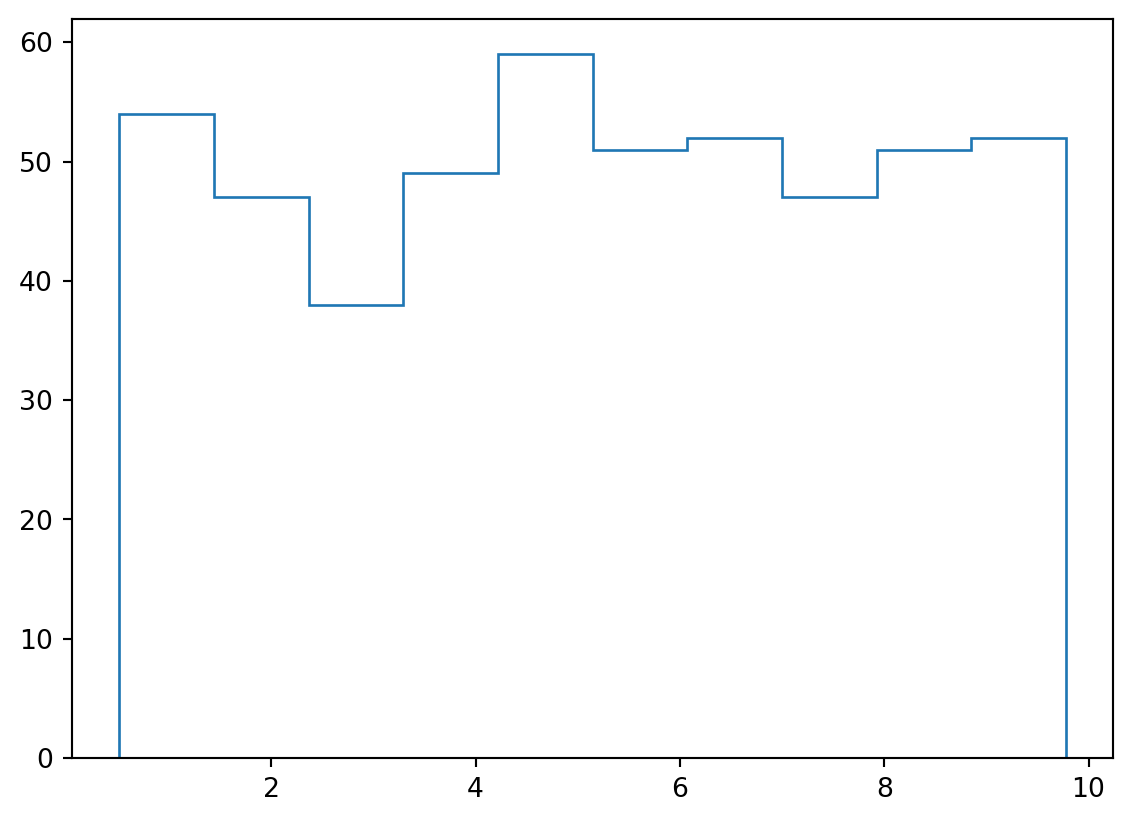
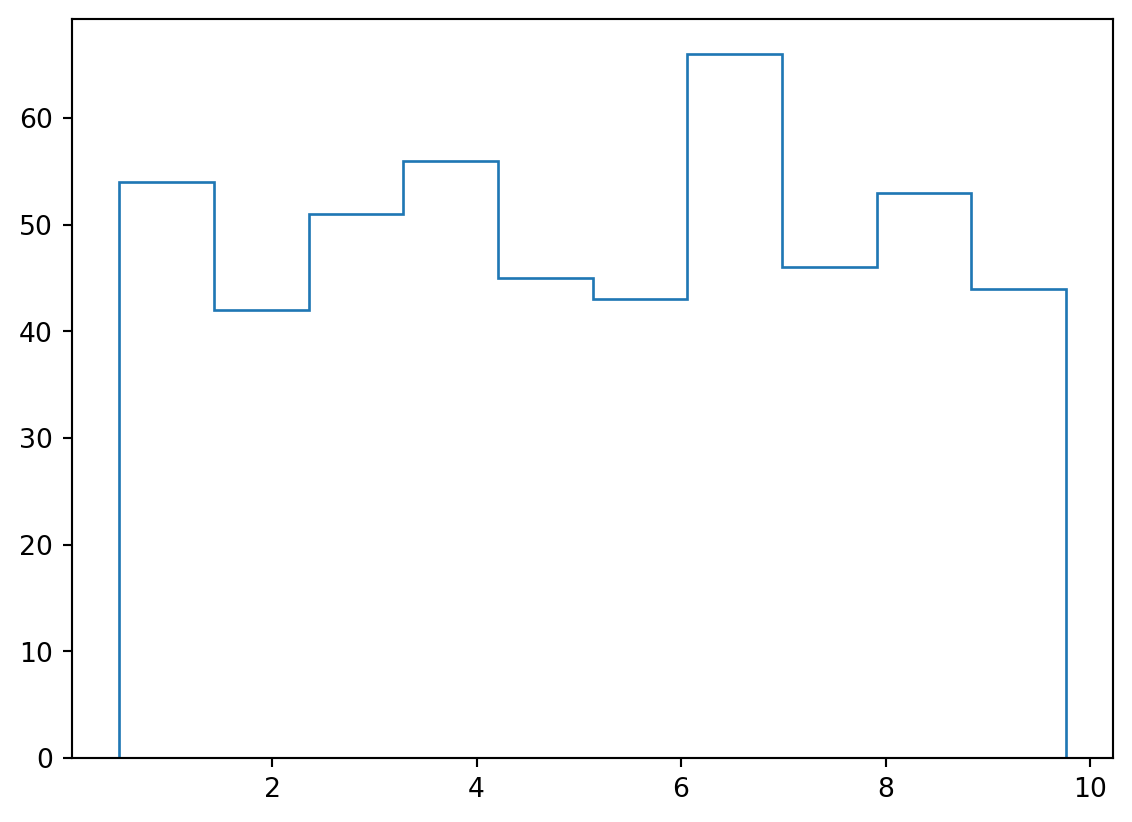
Built site for gh-pages

diff --git a/clases/clase-09.html b/clases/clase-09.html
@@ -438,7 +438,7 @@ d_i = x_i - \bar{x}
 <h2 class="anchored" data-anchor-id="histogramas">Histogramas</h2>
 <p>Usualmente cuando se tienen datos a tratarse de forma estadística, resulta útil usar hitogramas para representarlos. Por ejemplo, si se efectúan <code>n</code> mediciones para obtener un valor para la constante gravitatoria en la tierra (<span class="math inline">\(9,8 \dfrac{m}{s^2}\)</span>) y si se han tomando los recaudos necesarios para llevar adelante el experimento es de esperar que la gran mayoría de los valores obtenidos se agrupen cerca del valor más probable, que dependiendo de la incerteza del método o los experimentadores, podrá ser más o menos cercano al “verdadero”, que es aquél contra el cual comparamos nuestros resultados.</p>
 <p>En este caso, si graficamos “cuantas veces obutvimos” valores para cierto intervalo o clase, obtendremos algo similar a esto:</p>
-<div id="ab439dc0" class="cell" data-execution_count="1">
+<div id="d484bb41" class="cell" data-execution_count="1">
 <div class="cell-output cell-output-display">
 <div>
 <figure class="figure">
@@ -447,8 +447,15 @@ d_i = x_i - \bar{x}
 </div>
 </div>
 </div>
+<p>Donde se observa una distribución de datos normal como se ve en la siguiente figura:</p>
+<div class="quarto-figure quarto-figure-center">
+<figure class="figure">
+<p><img src="..\assets/calc-Normal-Distribution.png" class="img-fluid figure-img"></p>
+<figcaption>Distribución normal y porcentaje del área bajo la curva</figcaption>
+</figure>
+</div>
 <p>Si por el contrario, tiramos un dado <code>n</code> veces (y lo hacemos muuuuchas veces) veremos que la distribución de “cuantas veces salió el uno”, “cuantas veces salió el dos”, etc. tiene esta pinta:</p>
-<div id="6f6a8fa5" class="cell" data-execution_count="2">
+<div id="705bc315" class="cell" data-execution_count="2">
 <div class="cell-output cell-output-display">
 <div>
 <figure class="figure">

diff --git a/clases/clase-08.html b/clases/clase-08.html
@@ -412,6 +412,32 @@ ul.task-list li input[type="checkbox"] {
 <h2 class="anchored" data-anchor-id="ejercitación">Ejercitación</h2>
 <section id="graficar-una-función" class="level3">
 <h3 class="anchored" data-anchor-id="graficar-una-función">Graficar una función</h3>
+<p>Grafique las funciones que se mencionan en el <a href="../trabajos practicos/tp 03.html#Funciones elementales">punto 2 del TP3</a>. Agrupe las funciones de la siguiente forma</p>
+<ol type="1">
+<li>Funciones trigonométrias</li>
+<li>Funciones trigonométricas inversas</li>
+<li>Catenaria</li>
+<li>Funciones exponenciales</li>
+<li>Funciones logarítmicas</li>
+</ol>
+<p>Cada grupo de funciones deberá estar en una sola gráfica y contener:</p>
+<ul>
+<li>Nombres en los ejes (x,y)</li>
+<li>Título y subtítulo</li>
+<li>Leyenda</li>
+</ul>
+<p>Pruebe utilizar:</p>
+<ul>
+<li>Gáficos de dispersión</li>
+<li>Gráficos de barras (use primera columna como etiquetas)</li>
+</ul>
+<p>Como ejemplo de usar un gráfico de barras, debería ver algo como esto:</p>
+<div class="quarto-figure quarto-figure-center">
+<figure class="figure">
+<p><img src="..\assets/calc-grafica-barras-seno-coseno.png" class="img-fluid figure-img"></p>
+<figcaption>gráficas trigonométricas</figcaption>
+</figure>
+</div>
 </section>
 </section>
 <section id="referencias" class="level2">

diff --git a/trabajos practicos/tp 04.html b/trabajos practicos/tp 04.html
@@ -298,7 +298,7 @@ ul.task-list li input[type="checkbox"] {
     <h2 id="toc-title">En esta página</h2>
    
   <ul>
-  <li><a href="#modalidad-y-fecha-de-entrega" id="toc-modalidad-y-fecha-de-entrega" class="nav-link active" data-scroll-target="#modalidad-y-fecha-de-entrega"><span class="header-section-number">1</span> Modalidad y fecha de entrega</a></li>
+  <li><a href="#modalidad-y-fecha-de-entrega" id="toc-modalidad-y-fecha-de-entrega" class="nav-link active" data-scroll-target="#modalidad-y-fecha-de-entrega">Modalidad y fecha de entrega</a></li>
   </ul>
 </nav>
     </div>
@@ -325,8 +325,8 @@ ul.task-list li input[type="checkbox"] {
 </header>
 
 
-<section id="modalidad-y-fecha-de-entrega" class="level1" data-number="1">
-<h1 data-number="1"><span class="header-section-number">1</span> Modalidad y fecha de entrega</h1>
+<section id="modalidad-y-fecha-de-entrega" class="level1 unnumbered">
+<h1 class="unnumbered">Modalidad y fecha de entrega</h1>
 <p>Cada ejercicio deberá estar en una hoja diferente de un mismo libro de Libre Office Calc.</p>
 <p>Vía aula virtual <a href="https://inspt.cvg.utn.edu.ar/course/view.php?id=2201#section-1">acá</a> según fecha indicada en la tarea.</p>
 

diff --git a/trabajos practicos/tp 03.html b/trabajos practicos/tp 03.html
@@ -474,7 +474,7 @@ H=\sigma A T^4
 y = \cosh(\frac{x}{c})
 \]</span></p>
 <p>Donde el par <span class="math inline">\(x,y\)</span> son las coordenadas de un punto de la curva y <span class="math inline">\(c\)</span> es una constante.</p>
-<p>Considere que $c=250 &nbsp;m $ y calcule <span class="math inline">\(y(x)\)</span> para <span class="math inline">\(-100 \ m&lt;x&lt;100 \ m\)</span> a intervalos de 10 metros. Exprese sus resultados en notación científica o ingeneril con 4 cifras significativas.</p>
+<p>Considere que <span class="math inline">\(c=250 \ m\)</span> y calcule <span class="math inline">\(y(x)\)</span> para <span class="math inline">\(-100 \ m&lt;x&lt;100 \ m\)</span> a intervalos de 10 metros. Exprese sus resultados en notación científica o ingeneril con 4 cifras significativas.</p>
 </section>
 </section>
 <section id="funciones-exponenciales-y-logarítmicas" class="level2" data-number="2.2">
